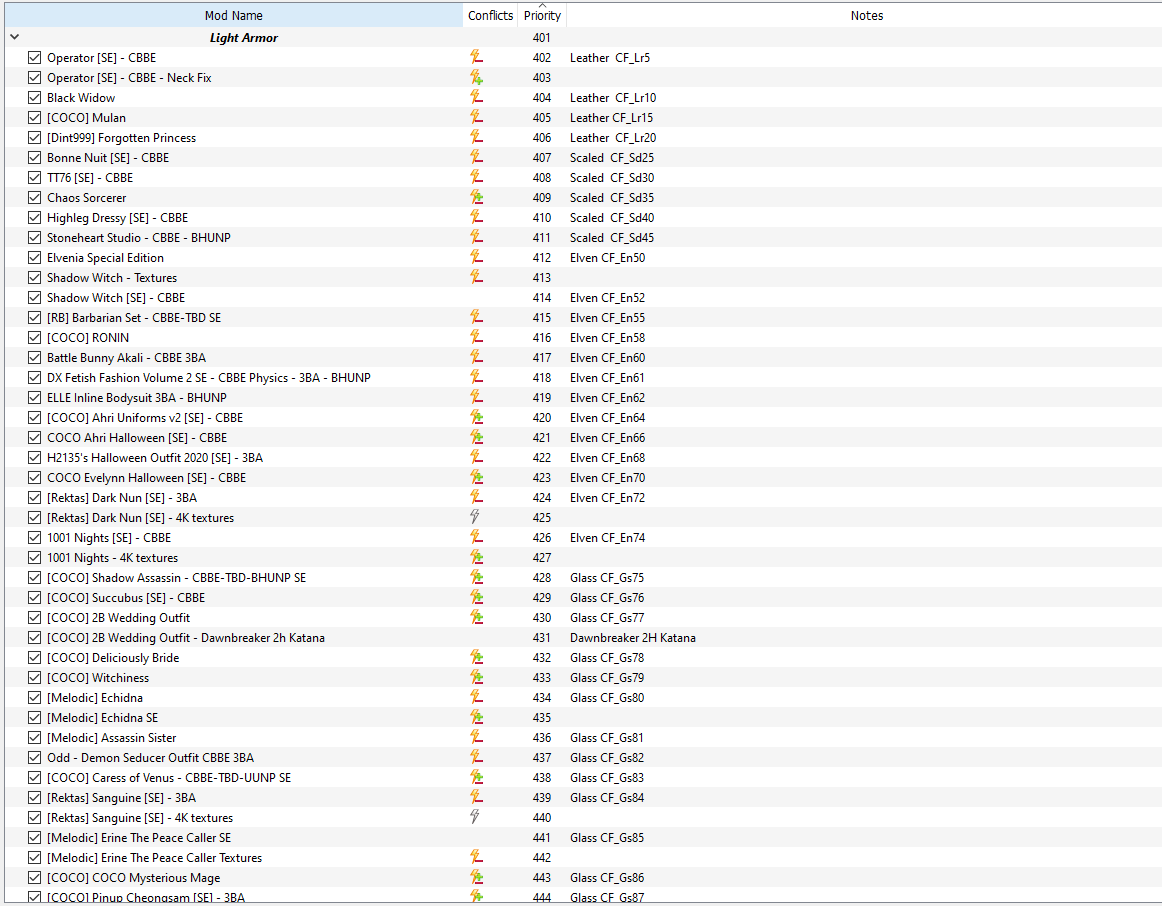
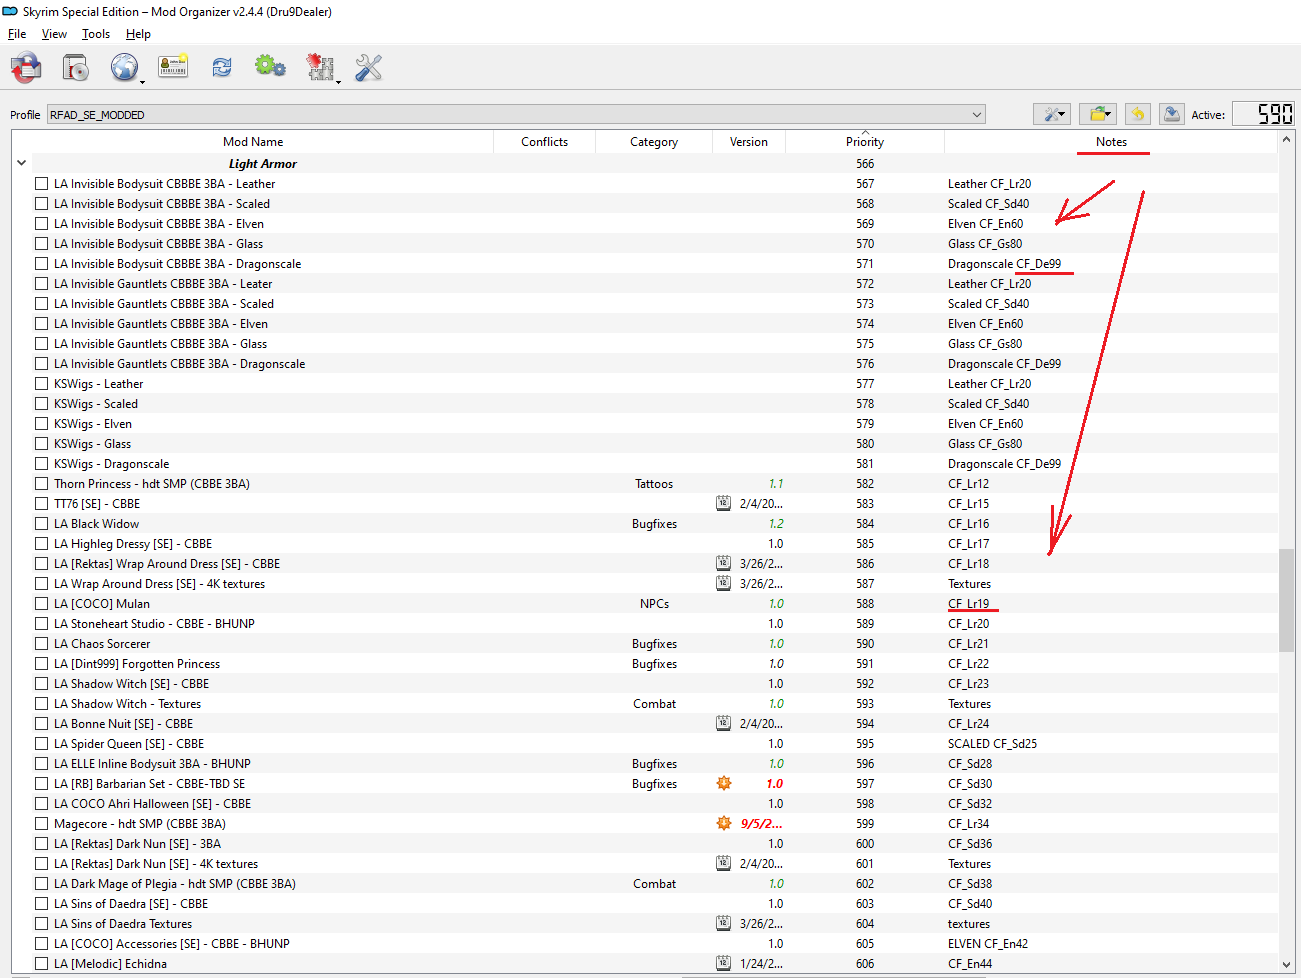
Readme update

diff --git a/README.md b/README.md
@@ -1,21 +1,53 @@
 
 ---
 
-## 📜 ClarityForge: Preparation & Usage Guide
+## 📜 ClarityForge: Usage Guide
 
 **ClarityForge** is a metadata-driven balancing and sanitization engine for Skyrim SE/AE. It uses **MO2 Metadata** to determine progression and material types, allowing you to balance outfits across different mods.
+For the **Preparation Before Script Running** section, here is a clean, structured layout you can use in your `README.md`:
+
+## ⚙ Preparation Before Script Running
+
+Before executing the script in xEdit (SSEEdit), ensure your environment and plugin load order are properly configured.
+
+### 1. Script Path Setup
+Set the path to your Mod Organizer 2 mods directory inside `ClarityForge.pas`:
+
+const MO2_MODS_DIR = 'D:\GAMES\MO2\mods\';
+
+### 2. Plugin Selection in xEdit
+
+When launching xEdit, you must load all relevant `.esp` / `.esm` files that your setup depends on for the script to resolve records correctly. It is generally recommended to select all active plugins, but pay special attention to mandatory master files based on your setup:
+
+* **Base Requirements:**
+* `Skyrim.esm`
+* `Update.esm`
+
+
+* **Requiem Setups:**
+* `Requiem.esm`
+
+
+* **Requiem for a Dream (RFAD) Setups:**
+* `Requiem.esm`
+* `Update.esm`
+* `Fozars_Dragonborn_-_Requiem_Patch.esp`
+
+> **Note:** Make sure all required plugins are checked in the xEdit module selection window before proceeding with the script execution.
 
 ---
 
 ## 🏷 The NameCode System (MO2 Metadata)
 
 The script identifies mods by scanning the **Notes** field in your Mod Organizer 2 entries.
+![alt text](img/EnableNotesForMO2.png)
 
 ### **How to Tag a Mod:**
 
 Add the NameCode to your mod's **Notes** in the MO2 UI.
 **Pattern:** `[Any Text] CF_[MaterialCode][SmithingLevel]`
 **Example Note:** `Dark Elf Blader - CBBE 3BA CF_En74`
+![alt text](img/mo2_lightarmor_notes.png)
 
 ### **Supported Material Codes**
 
@@ -35,9 +67,9 @@ Add the NameCode to your mod's **Notes** in the MO2 UI.
 | Heavy Armor | Daedric | **Dc** | Daedric |
 | Heavy Armor | Dragonplate | **Dp** | Dragonplate |
 
-![alt text](img/mo2_lightarmor_notes.png)
 
-> **Note on Scaling:** In the example above, `74` represents the **Smithing Skill** required. The script uses this number to calculate the actual **Character Level** requirement automatically.
+
+> **Note on Scaling:** In the example above, `CF_Lr19`, number `19` represents the **Smithing Skill** required. The script uses this number to calculate the actual **Character Level** requirement automatically.
 
 ---
 
